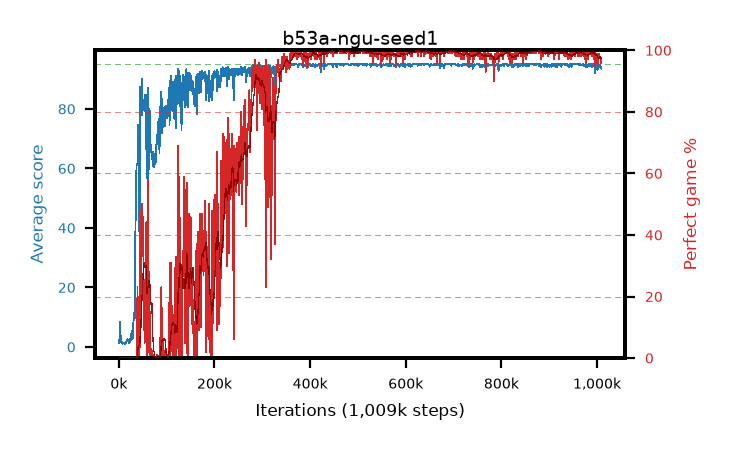
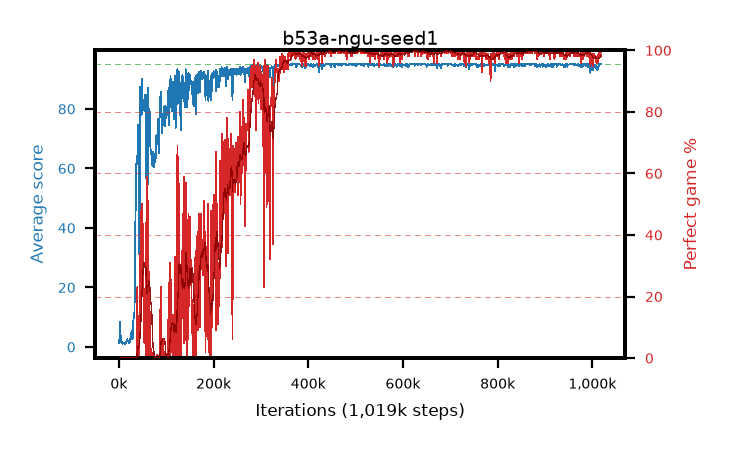
live pictures of 4 arm(s)

diff --git a/results/b53a-ngu-seed1/b53a-ngu-seed1.md b/results/b53a-ngu-seed1/b53a-ngu-seed1.md
@@ -1,6 +1,6 @@
 # b53a-ngu-seed1
 
-step **1,009,000** · 1009 evals · trailing **94.39** · peak **94.96** @643,000 · sef **72.2** · best30 **99.7** @643,000
+step **1,019,000** · 1019 evals · trailing **94.28** · peak **94.96** @643,000 · sef **72.4** · best30 **99.7** @643,000
 
 ## Config
 
@@ -80,15 +80,15 @@ step **1,009,000** · 1009 evals · trailing **94.39** · peak **94.96** @643,00
 | 2000 | 8.43 | 4.84 | 0.0 | 21.0 | 7.201 | 0.0 | 0.4 |
 | 3000 | 8.52 | 6.07 | 0.0 | 26.0 | 5.525 | 0.0 | 0.4 |
 | ... | ... | ... | ... | ... | ... | ... | ... |
-| 998000 | 94.22 | 94.61 | 54.0 | 95.0 | 190.883 | 98.0 | 0.4 |
-| 999000 | 93.79 | 94.57 | 28.0 | 95.0 | 188.341 | 96.0 | 0.4 |
-| 1000000 | 94.94 | 94.57 | 89.0 | 95.0 | 192.605 | 99.0 | 0.4 |
-| 1001000 | 92.93 | 94.5 | 22.0 | 95.0 | 186.444 | 95.0 | 0.4 |
-| 1002000 | 94.11 | 94.48 | 16.0 | 95.0 | 190.734 | 98.0 | 0.4 |
-| 1003000 | 94.33 | 94.48 | 30.0 | 95.0 | 190.997 | 98.0 | 0.4 |
-| 1004000 | 94.36 | 94.48 | 31.0 | 95.0 | 192.014 | 99.0 | 0.4 |
-| 1005000 | 94.02 | 94.45 | 40.0 | 95.0 | 190.634 | 98.0 | 0.4 |
-| 1006000 | 94.94 | 94.48 | 90.0 | 95.0 | 191.553 | 98.0 | 0.4 |
-| 1007000 | 94.3 | 94.46 | 31.0 | 95.0 | 190.935 | 98.0 | 0.4 |
 | 1008000 | 93.81 | 94.42 | 40.0 | 95.0 | 188.335 | 96.0 | 0.4 |
 | 1009000 | 93.58 | 94.39 | 39.0 | 95.0 | 189.176 | 97.0 | 0.4 |
+| 1010000 | 93.06 | 94.35 | 23.0 | 95.0 | 187.656 | 96.0 | 0.4 |
+| 1011000 | 93.83 | 94.32 | 24.0 | 95.0 | 188.363 | 96.0 | 0.4 |
+| 1012000 | 93.54 | 94.27 | 21.0 | 95.0 | 189.17 | 97.0 | 0.4 |
+| 1013000 | 94.31 | 94.25 | 26.0 | 95.0 | 191.944 | 99.0 | 0.4 |
+| 1014000 | 95.0 | 94.25 | 95.0 | 95.0 | 193.695 | 100.0 | 0.4 |
+| 1015000 | 95.0 | 94.25 | 95.0 | 95.0 | 193.717 | 100.0 | 0.4 |
+| 1016000 | 94.94 | 94.27 | 90.0 | 95.0 | 191.546 | 98.0 | 0.4 |
+| 1017000 | 94.94 | 94.26 | 89.0 | 95.0 | 192.61 | 99.0 | 0.4 |
+| 1018000 | 95.0 | 94.26 | 95.0 | 95.0 | 193.667 | 100.0 | 0.4 |
+| 1019000 | 95.0 | 94.28 | 95.0 | 95.0 | 193.705 | 100.0 | 0.4 |

diff --git a/results/b53d-ngu-seed4/b53d-ngu-seed4.md b/results/b53d-ngu-seed4/b53d-ngu-seed4.md
@@ -1,6 +1,6 @@
 # b53d-ngu-seed4
 
-step **1,009,000** · 1009 evals · trailing **94.89** · peak **94.92** @572,000 · sef **70.1** · best30 **99.6** @988,000
+step **1,019,000** · 1019 evals · trailing **94.9** · peak **94.92** @572,000 · sef **70.4** · best30 **99.6** @988,000
 
 ## Config
 
@@ -80,15 +80,15 @@ step **1,009,000** · 1009 evals · trailing **94.89** · peak **94.92** @572,00
 | 2000 | 2.39 | 1.47 | 0.0 | 8.0 | 1.286 | 0.0 | 0.4 |
 | 3000 | 6.99 | 3.31 | 0.0 | 25.0 | 5.34 | 0.0 | 0.4 |
 | ... | ... | ... | ... | ... | ... | ... | ... |
-| 998000 | 95.0 | 94.84 | 95.0 | 95.0 | 193.693 | 100.0 | 0.4 |
-| 999000 | 95.0 | 94.84 | 95.0 | 95.0 | 193.688 | 100.0 | 0.4 |
-| 1000000 | 95.0 | 94.84 | 95.0 | 95.0 | 193.685 | 100.0 | 0.4 |
-| 1001000 | 94.58 | 94.83 | 53.0 | 95.0 | 192.275 | 99.0 | 0.4 |
-| 1002000 | 95.0 | 94.83 | 95.0 | 95.0 | 193.703 | 100.0 | 0.4 |
-| 1003000 | 95.0 | 94.83 | 95.0 | 95.0 | 193.703 | 100.0 | 0.4 |
-| 1004000 | 95.0 | 94.83 | 95.0 | 95.0 | 193.692 | 100.0 | 0.4 |
-| 1005000 | 95.0 | 94.83 | 95.0 | 95.0 | 193.68 | 100.0 | 0.4 |
-| 1006000 | 95.0 | 94.86 | 95.0 | 95.0 | 193.699 | 100.0 | 0.4 |
-| 1007000 | 94.29 | 94.83 | 24.0 | 95.0 | 191.948 | 99.0 | 0.4 |
 | 1008000 | 94.97 | 94.86 | 92.0 | 95.0 | 192.638 | 99.0 | 0.4 |
 | 1009000 | 95.0 | 94.89 | 95.0 | 95.0 | 193.672 | 100.0 | 0.4 |
+| 1010000 | 94.25 | 94.86 | 20.0 | 95.0 | 191.901 | 99.0 | 0.4 |
+| 1011000 | 95.0 | 94.9 | 95.0 | 95.0 | 193.7 | 100.0 | 0.4 |
+| 1012000 | 95.0 | 94.9 | 95.0 | 95.0 | 193.686 | 100.0 | 0.4 |
+| 1013000 | 95.0 | 94.9 | 95.0 | 95.0 | 193.703 | 100.0 | 0.4 |
+| 1014000 | 95.0 | 94.9 | 95.0 | 95.0 | 193.679 | 100.0 | 0.4 |
+| 1015000 | 94.96 | 94.9 | 91.0 | 95.0 | 192.611 | 99.0 | 0.4 |
+| 1016000 | 94.97 | 94.9 | 92.0 | 95.0 | 192.645 | 99.0 | 0.4 |
+| 1017000 | 95.0 | 94.9 | 95.0 | 95.0 | 193.702 | 100.0 | 0.4 |
+| 1018000 | 95.0 | 94.9 | 95.0 | 95.0 | 193.685 | 100.0 | 0.4 |
+| 1019000 | 95.0 | 94.9 | 95.0 | 95.0 | 193.67 | 100.0 | 0.4 |
